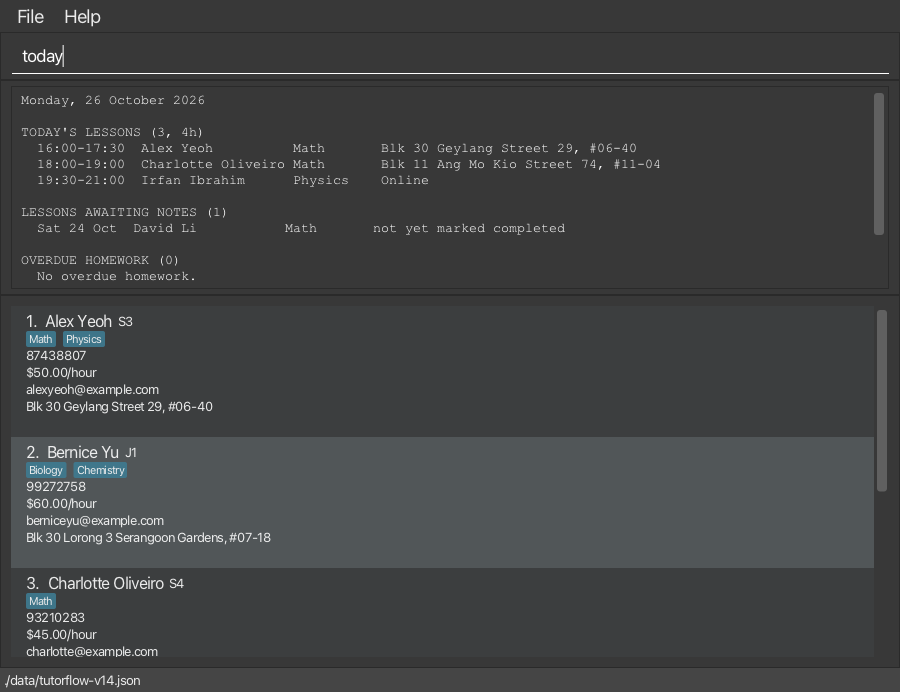
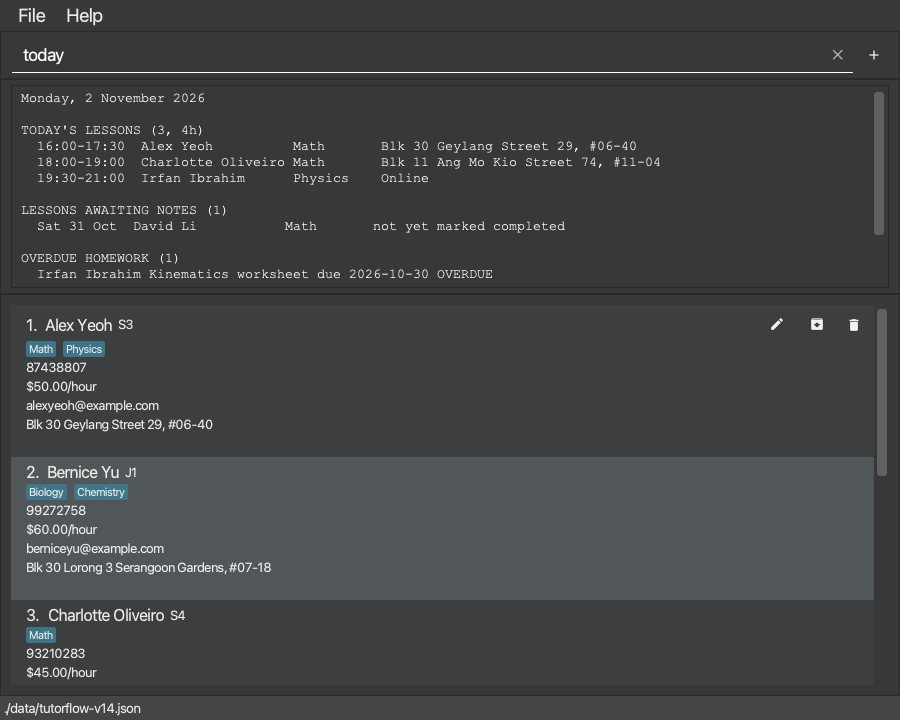
Refresh the UI screenshot and fix two broken links
The screenshot predated the card and Add Student buttons from #241.
The site menu linked to a DG heading that no longer mentions
configuration, and the UG's link to view used GitHub's anchor, which
MarkBind spells differently because of the apostrophe. The view heading
now has no apostrophe, so the website and the in-app guide agree.

The today section now says that its lessons are not numbered and that
lesson commands need agenda or lesson list first.

diff --git a/docs/UserGuide.md b/docs/UserGuide.md
@@ -242,7 +242,7 @@ Examples:
 * `find John` returns `john` and `John Doe`
 * `find alex david` lists `Alex Yeoh` and `David Li` if those students are recorded. If only those two students match, the result says `2 student(s) listed!` and the student list shows their current details with new index numbers.
 
-### Viewing a student's overview: `view`
+### Viewing the overview of a student: `view`
 
 Shows what you need to prepare for one student, on one screen.
 
@@ -275,7 +275,7 @@ Format: `remark INDEX r/REMARK`
 * Sets the remark of the student at the specified `INDEX`, which is the index number shown in the displayed student list and **must be a positive integer** 1, 2, 3, ...
 * The new remark replaces the old one. Writing `r/` with nothing after it removes the remark.
 * Surrounding spaces are removed and repeated spaces inside the remark are collapsed into one, as for other free text.
-* A remark is shown in the student's card and in [`view`](#viewing-a-students-overview-view).
+* A remark is shown in the student's card and in [`view`](#viewing-the-overview-of-a-student-view).
 
 Examples:
 * `remark 1 r/Prefers morning lessons` sets the remark of the 1st student.
@@ -392,6 +392,7 @@ Format: `today`
 * The second section, `LESSONS AWAITING NOTES`, shows the scheduled lessons from earlier days that were not marked completed, the most recent first.
 * The third section, `OVERDUE HOMEWORK`, shows assigned work due before today, or `No overdue homework.`. Run `hw list overdue/` to get selectable numbers.
 * The fourth section, `DUES`, is the list that [`dues`](#viewing-all-outstanding-balances-dues) shows: how many students owe money and the total, then each student's amount and the age of their oldest unpaid charge, such as `oldest unpaid 2 days` or `oldest unpaid 1 day`, the oldest first. If nobody owes money, it shows `No outstanding balances. Everyone is up to date.`
+* The lessons on the dashboard are not numbered. To complete, move or cancel one of them, first run [`agenda`](#viewing-the-agenda-agenda) for today's lessons, or [`lesson list st/STUDENT_INDEX all/`](#listing-the-lessons-of-a-student-lesson-list) for a lesson awaiting notes, and use the number shown there. Right after TutorFlow starts, no lesson has a number yet, so a command such as `lesson done 1` is refused with a message that tells you to run `agenda` or `lesson list`.
 * All four sections are always shown. An empty section is not an error: it shows `No lessons today.`, `All past lessons are recorded.`, `No overdue homework.` or `No outstanding balances. Everyone is up to date.`
 * To keep the result box responsive, each lesson section lists at most 200 rows. The heading still gives the complete count and total time.
 * Today is the date on your computer, so a wrong system clock shows the wrong day.
@@ -512,7 +513,7 @@ Marks a lesson completed and optionally records what was taught.
 
 Format: `lesson done INDEX [n/NOTES]`
 
-* `INDEX` is the lesson number from the current `agenda` or `lesson list`, not the student number. It must be a positive integer.
+* `INDEX` is the lesson number from the current `agenda` or `lesson list`, not the student number. It must be a positive integer. The `today` dashboard does not number lessons, so run `agenda` or `lesson list` first.
 * The first completion adds the hourly lesson fee to the student’s balance and shows `Charge of $X.XX recorded.` Updating notes never charges again. A fee that is zero, including after cent rounding, completes the lesson without creating a charge and explains why: for a rate of $0.00 it says `No automatic charge: This student's rate is $0.00.` and how to specify an amount. Use [`charge`](#charging-a-lesson-charge) to bill a lesson by hand.
 * Only lessons dated today or earlier can be completed, using your computer's local date. A cancelled lesson cannot be completed.
 * `NOTES` is optional free text of 1–1000 printable characters on one line. Leading/trailing whitespace is trimmed and repeated spaces are collapsed. An empty `n/`, line breaks and repeated `n/` parameters are rejected.

diff --git a/docs/_markbind/layouts/default.md b/docs/_markbind/layouts/default.md
@@ -37,7 +37,7 @@
   * [Setting Up]({{ baseUrl }}/DeveloperGuide.html#setting-up-getting-started)
   * [Design]({{ baseUrl }}/DeveloperGuide.html#design)
   * [Implementation]({{ baseUrl }}/DeveloperGuide.html#implementation)
-  * [Documentation, logging, testing, configuration, dev-ops]({{ baseUrl }}/DeveloperGuide.html#documentation-logging-testing-configuration-dev-ops)
+  * [Documentation, logging, testing, dev-ops]({{ baseUrl }}/DeveloperGuide.html#documentation-logging-testing-dev-ops)
   * [Appendix: Requirements]({{ baseUrl }}/DeveloperGuide.html#appendix-requirements)
   * [Appendix: Instructions for manual testing]({{ baseUrl }}/DeveloperGuide.html#appendix-instructions-for-manual-testing)
 * [About Us]({{ baseUrl }}/AboutUs.html)
